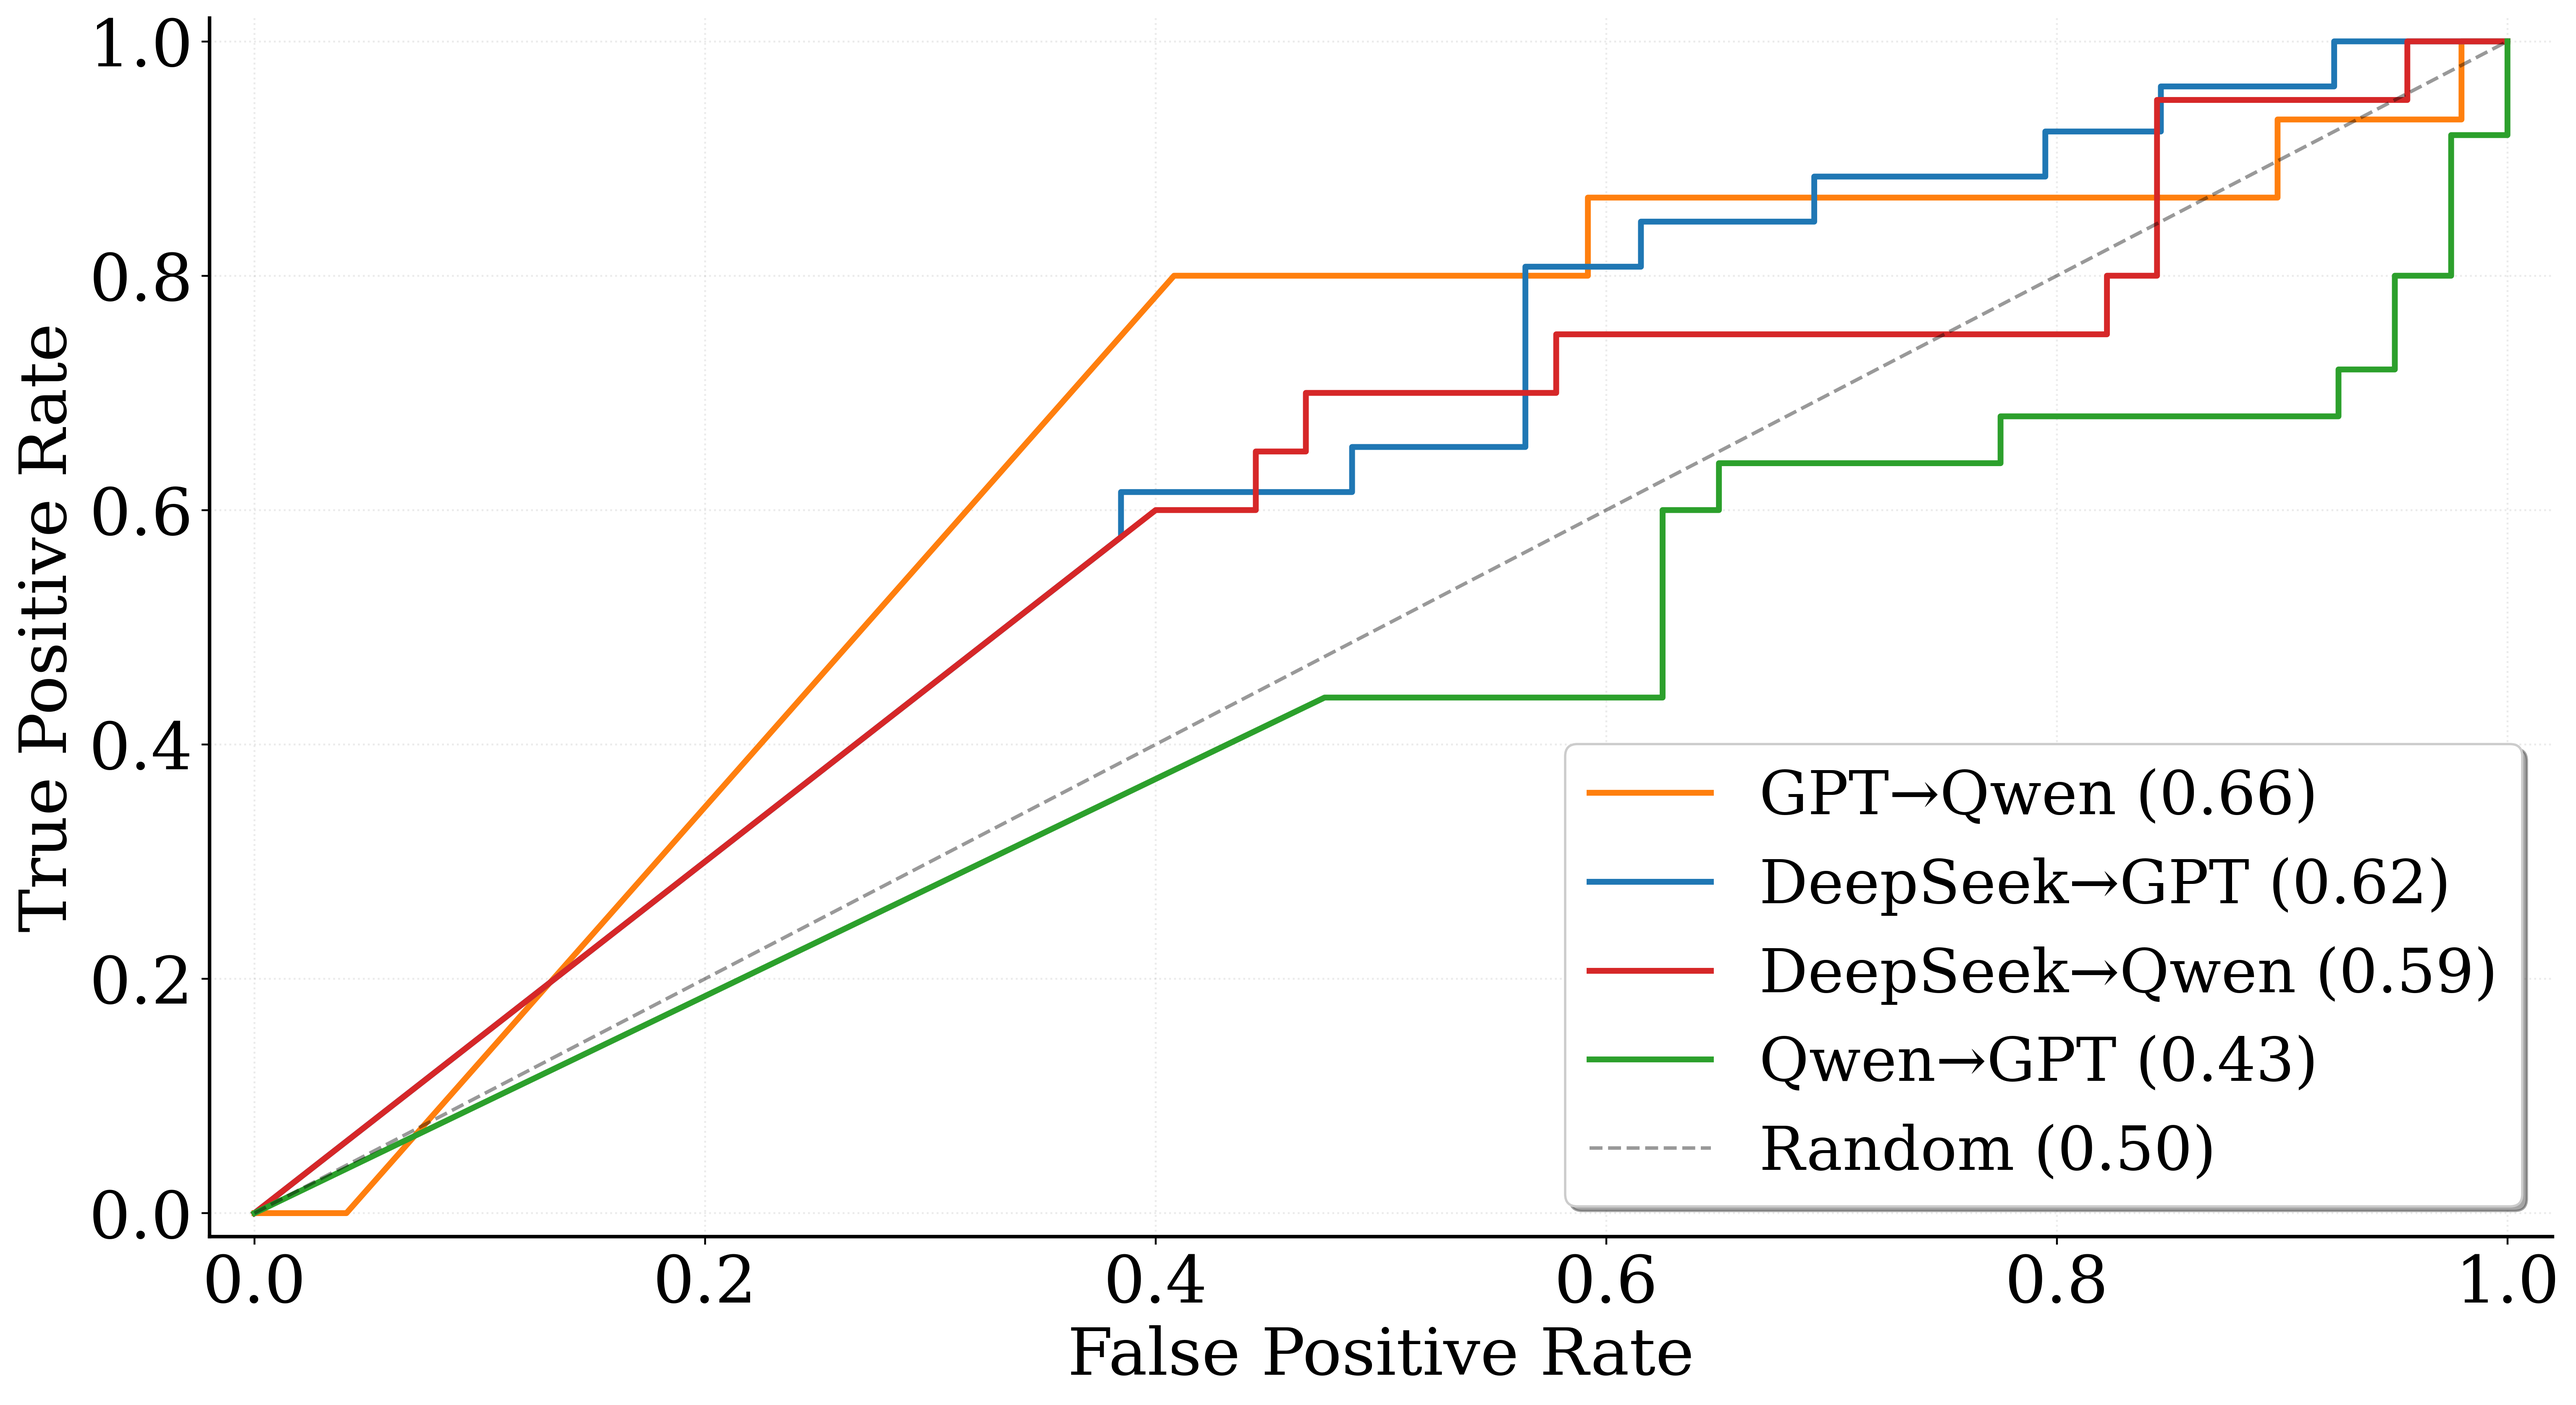
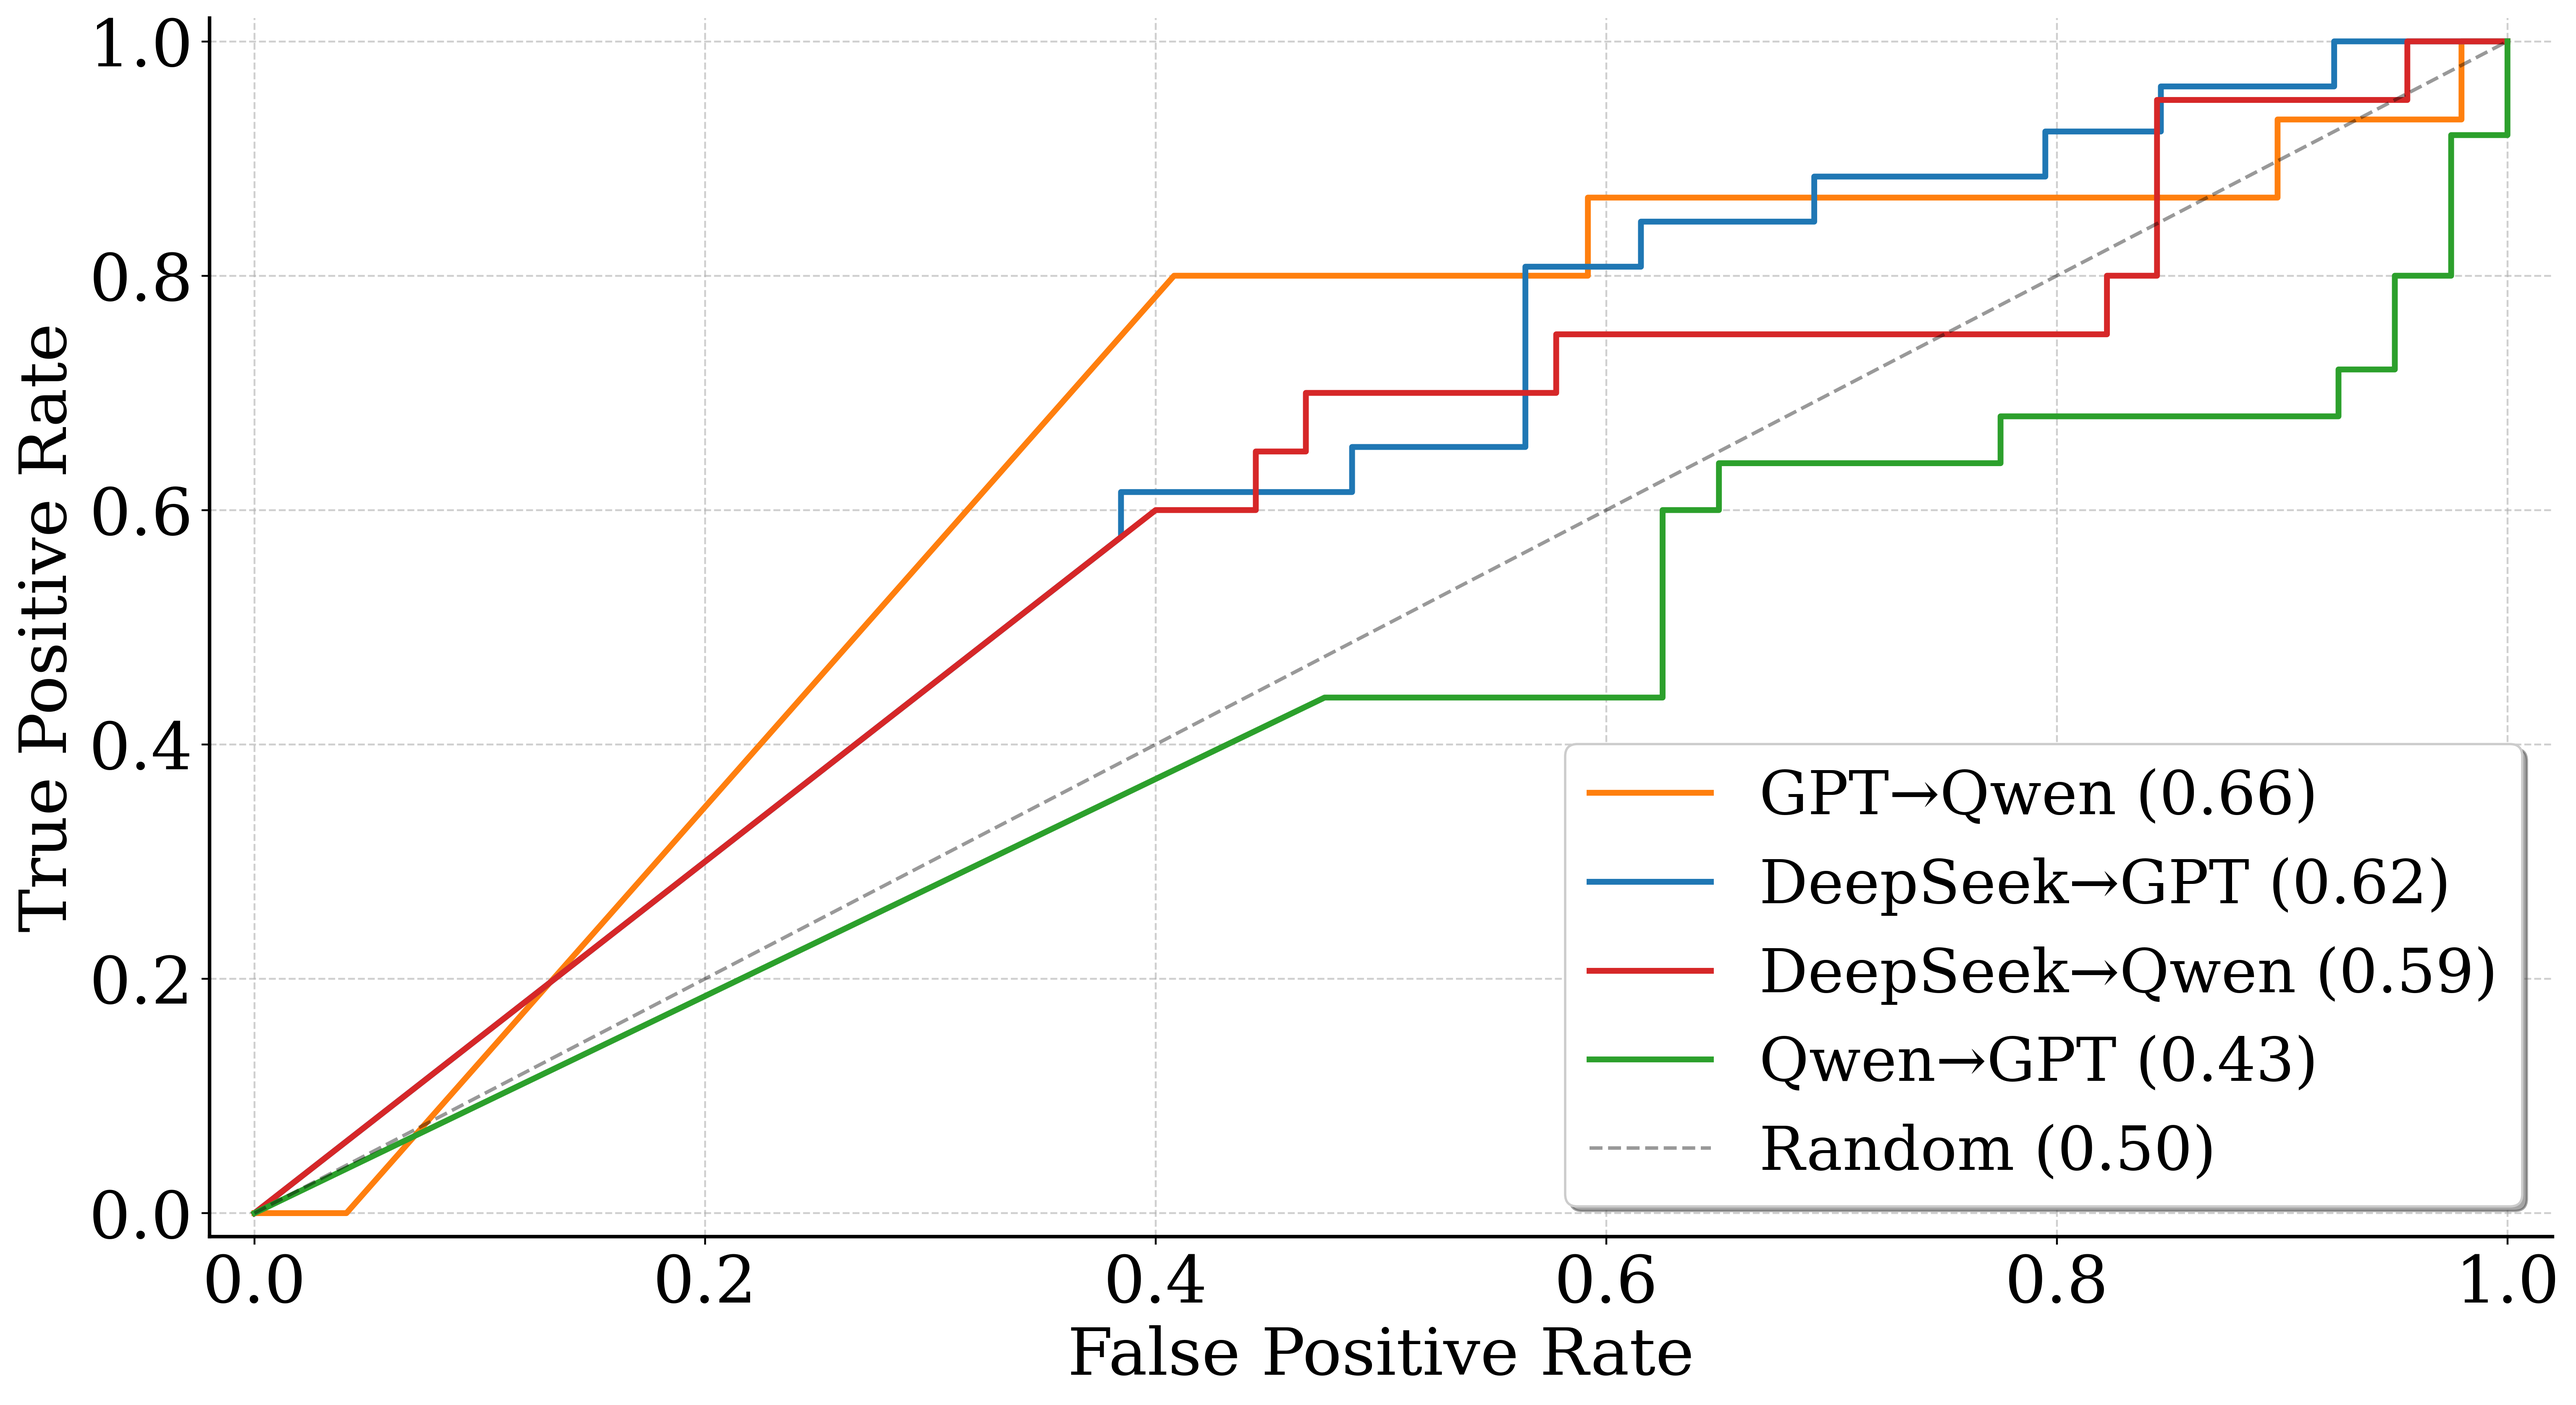
Minor Changes: plotting

diff --git a/src/refeed_mech/feedback_experiment_results/plots/plot_refeed_auc_and_glob_trend.py b/src/refeed_mech/feedback_experiment_results/plots/plot_refeed_auc_and_glob_trend.py
@@ -75,7 +75,7 @@ ax.set_xlabel('False Positive Rate', fontsize=28)
 ax.set_ylabel('True Positive Rate', fontsize=28)
 ax.legend(loc='lower right', fontsize=26, frameon=True,
           fancybox=True, shadow=True)
-ax.grid(alpha=0.25, linestyle=':', linewidth=0.8)
+ax.grid(alpha=0.6, linestyle='--', linewidth=0.8)
 
 # Add box around plot
 ax.spines['top'].set_visible(False)
@@ -176,7 +176,7 @@ ax.set_ylabel("Median EPR", fontsize=28)
 ax.set_xlim(1, 6)
 ax.set_xticks(range(1, 7))
 
-ax.grid(alpha=0.25, linestyle=':', linewidth=0.8)
+ax.grid(alpha=0.6, linestyle='--', linewidth=0.8)
 ax.legend(fontsize=28, loc='upper right', frameon=True, fancybox=True, shadow=True)
 
 # Add box around plot

diff --git a/src/refeed_mech/feedback_experiment_results/plots/plot_epr_verifier_natural_space.py b/src/refeed_mech/feedback_experiment_results/plots/plot_epr_verifier_natural_space.py
@@ -120,7 +120,7 @@ for i, pc in enumerate(parts['bodies']):
     pc.set_alpha(0.65)
 
 ax.set_ylabel('Verifier EPR', fontsize=28)
-ax.grid(axis='y', alpha=0.3, linestyle='--', linewidth=0.5)
+# ax.grid(axis='y', alpha=0.3, linestyle='--', linewidth=0.5)
 
 # Add box around plot
 ax.spines['top'].set_visible(True)
